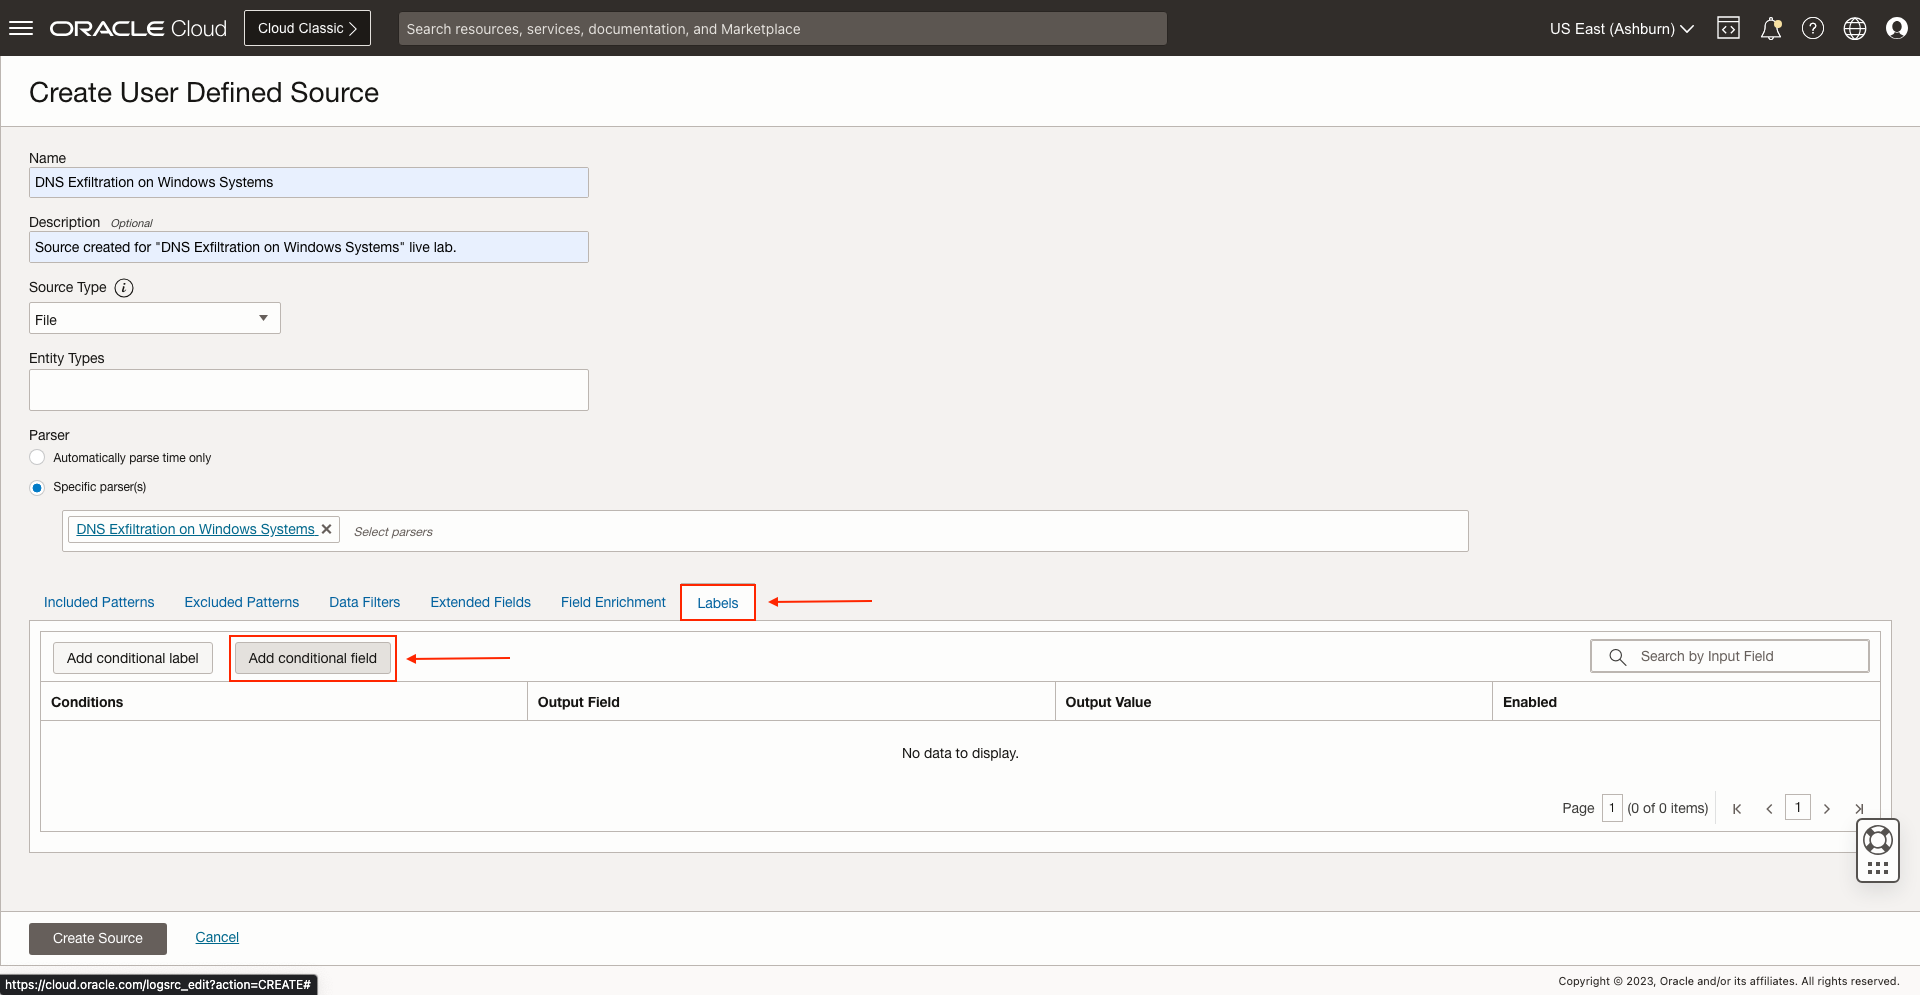
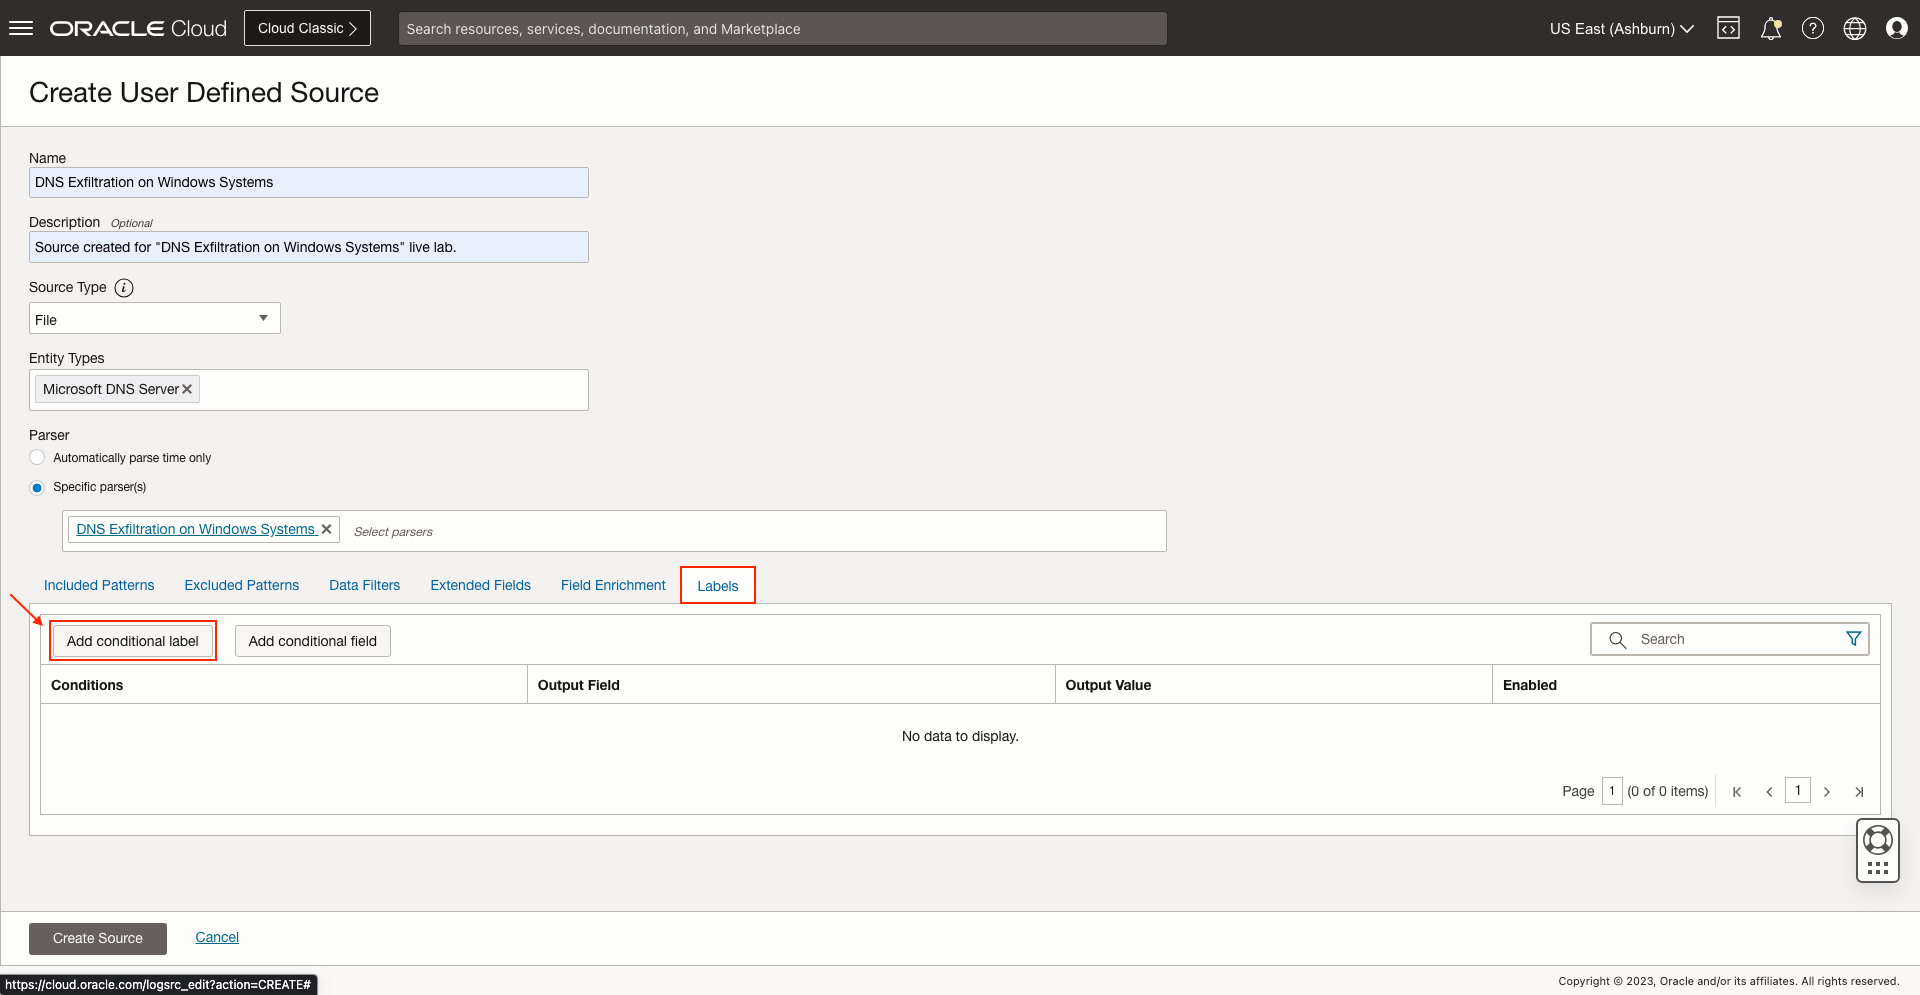
Lab 7 Fixes

diff --git a/logging-analytics/alarms-detection-rules-la/dns-exfiltration/dns-exfiltration.md b/logging-analytics/alarms-detection-rules-la/dns-exfiltration/dns-exfiltration.md
@@ -90,26 +90,20 @@ In this lab, you will:
 
 ## **Task 5:**  Add Labels
 
-1. Click on **Labels** and on **Add conditional field**.
+1. Click on **Labels** and on **Add conditional label**.
    ![](./images/sources-create-04.png "UIdescription")
 
 2. Select **Destination IP** as **Input Field** and **Not In** as **Operator**. Add the following IPv4 addresses to **Condition Value**: 192.168.1.10, 10.0.0.5, 192.168.2.20, 10.1.1.1
    ![](./images/sources-create-05.png "UIdescription")
 
-3. Click on **Create New Field**.
+3. Click on **Create Label**.
    ![](./images/sources-create-06.png "UIdescription")
 
-4. Specify a **Name**, **Data Type** and **Description (optional)**. Click on **Create**.
+4. Specify a **Label** and **Description (optional)**. Check **Detonates Problem** and select **High** as **Problem Priority**.
    ![](./images/sources-create-07.png "UIdescription")
 
-   The field is added successfully.
+5. Click on **Create**.
    ![](./images/sources-create-08.png "UIdescription")
-
-5. Specify an **Output Value**.
-   ![](./images/sources-create-09.png "UIdescription")
-
-6. Click on **Add**.
-   ![](./images/sources-create-10.png "UIdescription")
 
 ## **Task 6:**  Save User Defined Source
 
@@ -366,4 +360,4 @@ In this lab, you will:
 ## Acknowledgements
 * **Author** - Oswaldo Osuna, Logging Analytics Development Team
 * **Contributors** -  Kumar Varun, Logging Analytics Product Management - Kiran Palukuri, Logging Analytics Product Management - Vikram Reddy, Logging Analytics Development Team 
-* **Last Updated By/Date** - Oswaldo Osuna, Nov 2 2023
+* **Last Updated By/Date** - Oswaldo Osuna, Nov 9 2023

diff --git a/logging-analytics/alarms-detection-rules-la/logs-db/logs-db.md b/logging-analytics/alarms-detection-rules-la/logs-db/logs-db.md
@@ -107,6 +107,8 @@ In this lab, you will:
 
 3. Select a **Compartment**. Then, select the **Metric namespace** and **Metric name** we created for the **Detection Rules**. Set the **Interval** for **30 minutes**. Finally, select **Count** for **Statistic**.
 
+## **Task 9:**  See Detection Rules and Alarms results
+
 
 ## Acknowledgements
 * **Author** - Oswaldo Osuna, Logging Analytics Development Team
